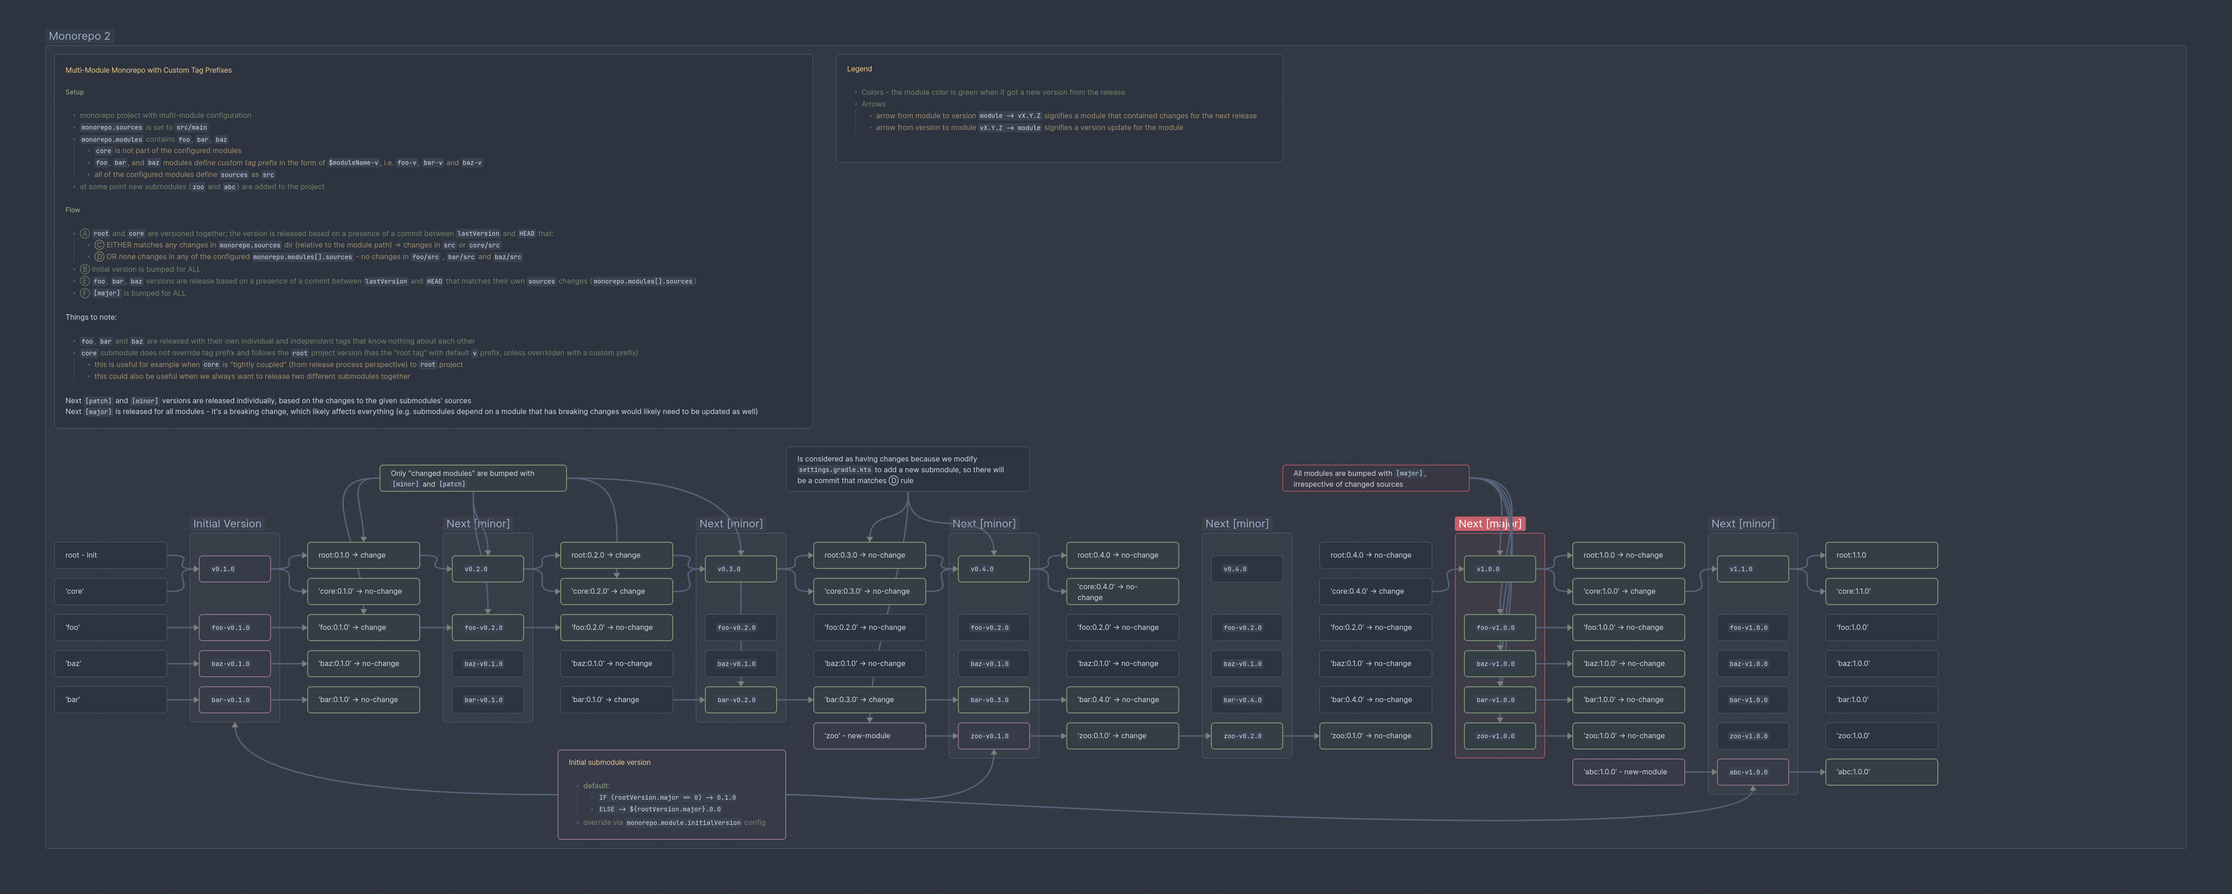
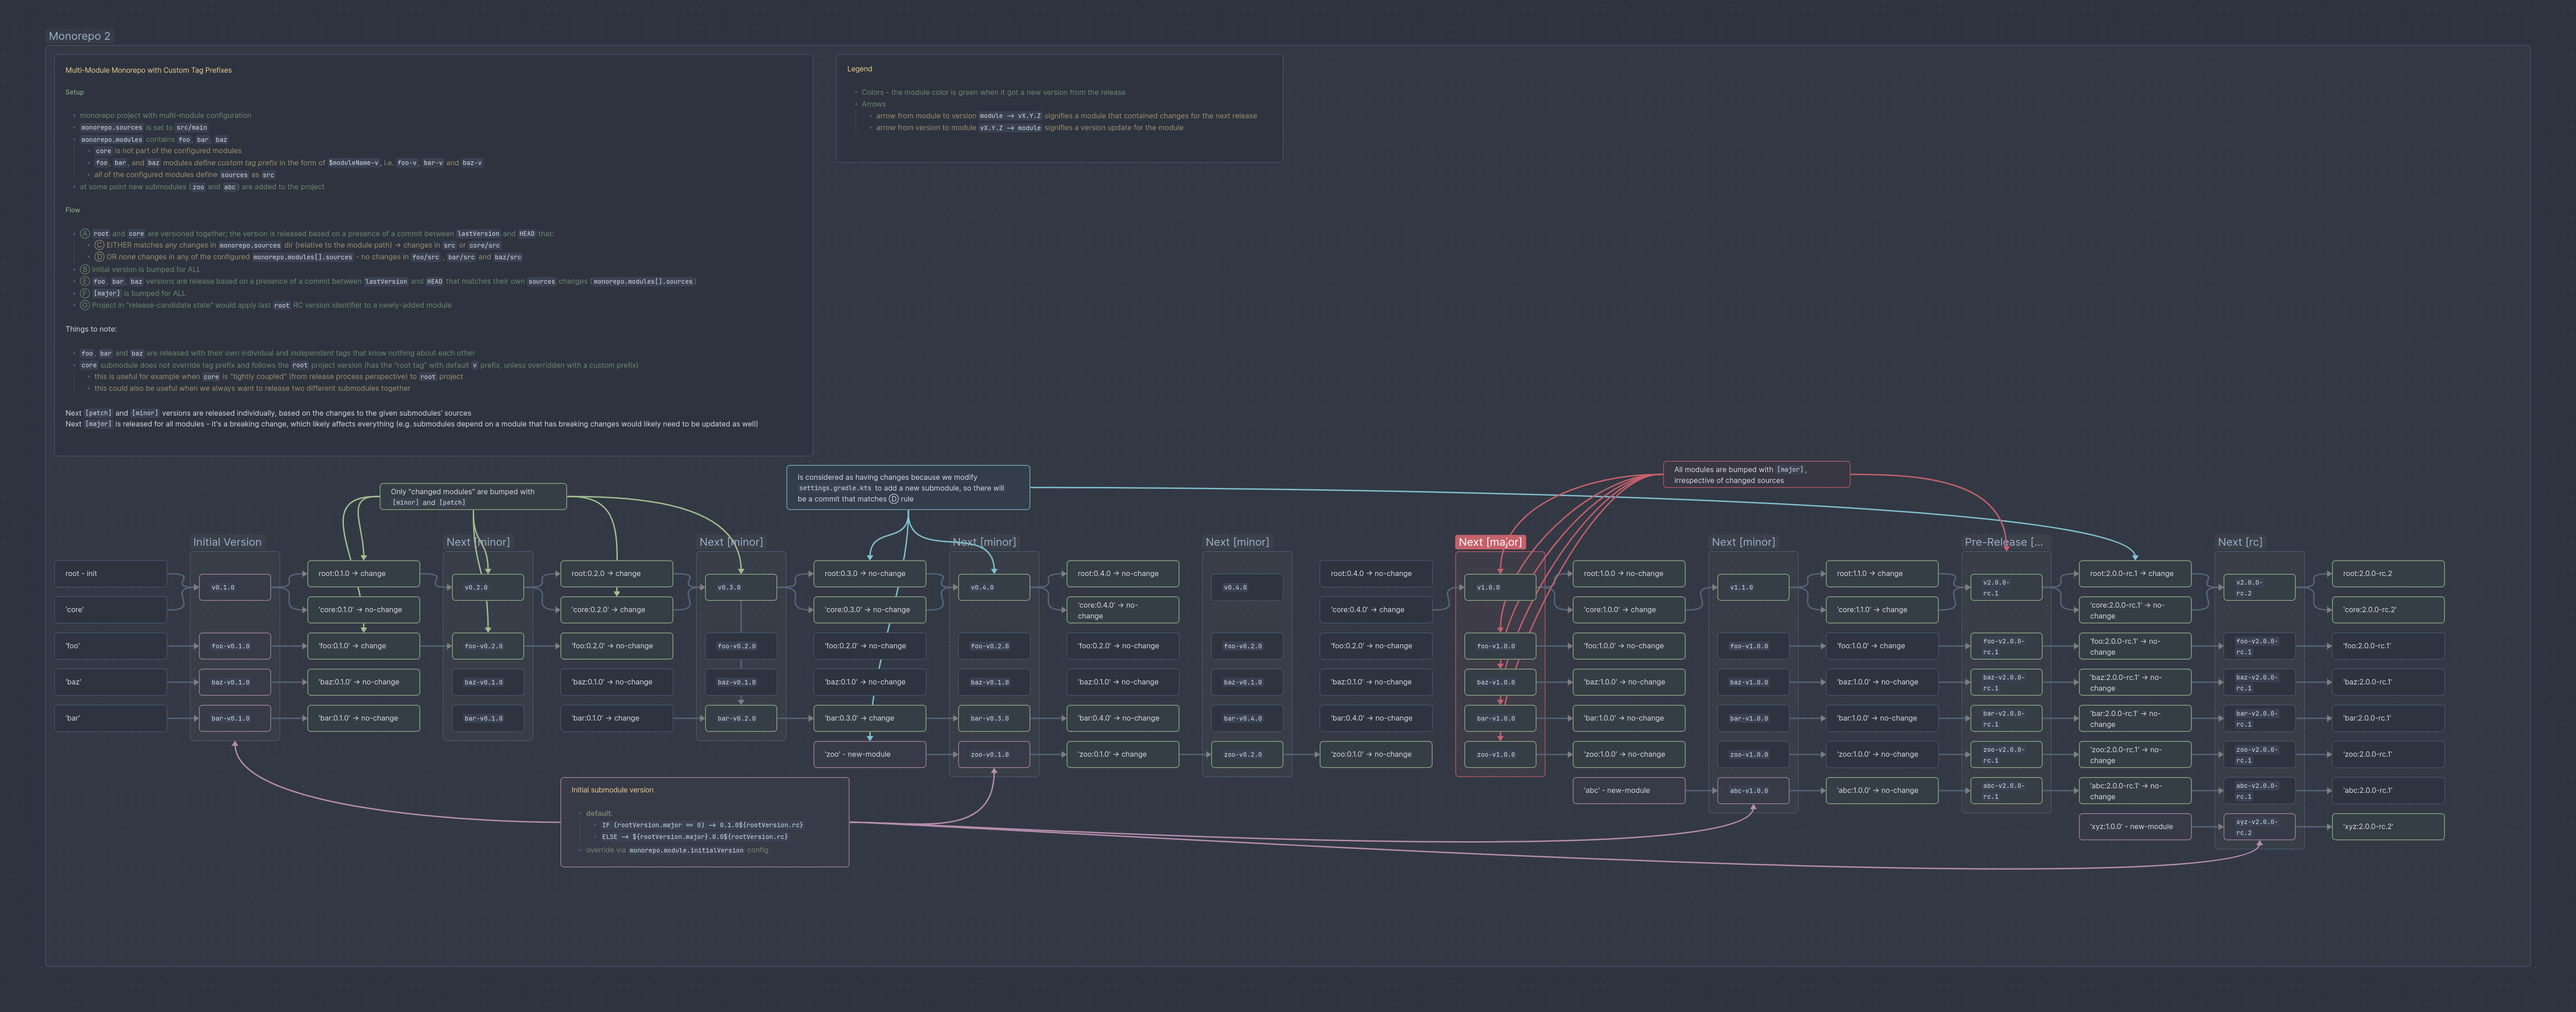
Support versioning new monorepo multi-tag modules in pre-release (#34)
IF the monorepo project is in pre-release and new module is added,
AND the new module is versioned via own tag,
THEN the module version should also be postfixed with pre-release
identifier.

diff --git a/semantic-versioning/src/functionalTest/kotlin/io/github/serpro69/semverkt/gradle/plugin/SemverKtPluginFT.kt b/semantic-versioning/src/functionalTest/kotlin/io/github/serpro69/semverkt/gradle/plugin/SemverKtPluginFT.kt
@@ -19,7 +19,6 @@ import io.github.serpro69.semverkt.release.configuration.ModuleConfig
 import io.github.serpro69.semverkt.release.configuration.PojoConfiguration
 import io.github.serpro69.semverkt.release.configuration.TagPrefix
 import io.github.serpro69.semverkt.spec.Semver
-import io.kotest.core.names.DuplicateTestNameMode
 import io.kotest.matchers.shouldBe
 import io.kotest.matchers.string.shouldContain
 import io.kotest.matchers.string.shouldNotContain
@@ -988,6 +987,57 @@ class SemverKtPluginFT : AbstractFT({ t ->
                 result.output shouldContain t.expectedTag("foo", Semver("0.1.0"), dryRun, UpToDate.FALSE, false)
                 result.output shouldContain t.expectedTag("bar", Semver("0.3.0"), dryRun, UpToDate.FALSE, false)
                 result.output shouldContain t.expectedTag("baz", null, dryRun, UpToDate.TRUE, false)
+            }
+
+            listOf(
+                Triple(Semver("1.3.0-rc.3"), Semver("1.3.0-rc.1"), Semver("1.0.0-rc.4")),
+                Triple(Semver("2.0.0-rc.3"), Semver("2.0.0-rc.1"), Semver("2.0.0-rc.4"))
+            ).forEach { (ver, moduleVer, expectedVer) ->
+                it("should set initial RC version for new submodule after first stable release") {
+                    // arrange
+                    val modulesVersions = modules.map { it to if (it == "core") ver else moduleVer }
+                    val project = SemverKtTestProject(
+                        multiModule = true,
+                        monorepo = true,
+                        multiTag = true,
+                        printModuleVersion = true
+                    )
+                    Git.open(project.projectDir.toFile()).use {
+                        t.setupInitialVersions(project, it)(modulesVersions)
+                        // -> commit file in ':core' submodule path
+                        t.commit(project, it, if (!rfc) null else Increment.PRE_RELEASE)("core")
+                        // -> commit file in ':bar' submodule path
+                        t.commit(project, it, if (!rfc) null else Increment.PRE_RELEASE)("bar")
+                        // -> add new ':abc' submodule
+                        project.add(ModuleConfig("abc", tag = object : GitTagConfig {
+                            override val prefix: TagPrefix = TagPrefix("abc-v")
+                        }))
+                        t.commit(project, it, if (!rfc) null else Increment.PRE_RELEASE)("abc")
+                    }
+                    // act
+                    // -> tag next MINOR version
+                    val result = rfc.tag(project)(preRelease)(dryRun)
+                    // assert
+                    val ml = modulesVersions.plus("abc" to expectedVer).map { (m, v) ->
+                        if (m == "core" || m == "bar") m to v.incrementPreRelease() else m to v
+                    }
+                    result.task(":tag")?.outcome shouldBe t.expectedOutcome(dryRun, UpToDate.FALSE)
+                    result.output shouldContain t.expectedConfigure(ver.incrementPreRelease(), ml)
+                    // -> 'root' project and ':core' submodule should have next RC version tag (v2.0.0-rc.4)
+                    //    (':core' is not configured with custom tag prefix and has changes)
+                    result.output shouldContain t.expectedTag(project.name, ver.incrementPreRelease(), dryRun, UpToDate.FALSE, false)
+                    result.output shouldContain t.expectedTag("core", ver.incrementPreRelease(), dryRun, UpToDate.TRUE, true)
+                    // -> ':bar' submodule should have next RC version tag (bar-v2.0.0-rc.2)
+                    //    (configured with custom tag prefix has changes)
+                    result.output shouldContain t.expectedTag("bar", moduleVer.incrementPreRelease(), dryRun, UpToDate.FALSE, false)
+                    // -> ':foo' and ':baz' submodules should be unchanged
+                    //    (both are configured with custom tag prefix, and they don't have changes)
+                    result.output shouldContain t.expectedTag("foo", null, dryRun, UpToDate.TRUE, false)
+                    result.output shouldContain t.expectedTag("baz", null, dryRun, UpToDate.TRUE, false)
+                    // -> ':abc' submodule should have initial RC version tag (abc-v.2.0.0-rc.4)
+                    //    (configured with custom tag prefix and "default initial RC version" -> '${rootVersion.major}.0.0${rootVersion.preRelease}')
+                    result.output shouldContain t.expectedTag("abc", expectedVer, dryRun, UpToDate.FALSE, false)
+                }
             }
         }
     }

diff --git a/semantic-versioning/src/main/kotlin/io/github/serpro69/semverkt/gradle/plugin/SemverKtPlugin.kt b/semantic-versioning/src/main/kotlin/io/github/serpro69/semverkt/gradle/plugin/SemverKtPlugin.kt
@@ -58,7 +58,7 @@ class SemverKtPlugin : Plugin<Settings> {
                 project.rootProject.path -> null
                 else -> config.monorepo.modules.firstOrNull { m -> m.path == project.path }
             }
-            logger.debug("{} project module config: {}", project.name,  moduleConfig?.jsonString())
+            logger.debug("{} project module config: {}", project.name, moduleConfig?.jsonString())
 
             it.description = "Create a tag for the next version"
             it.config.set(config)
@@ -226,13 +226,14 @@ class SemverKtPlugin : Plugin<Settings> {
             // set initial version
             val setInitial by lazy { nextVersion != null && latestVersion == null }
             val next = if (nextVersion != null && (setSnapshot || setNext || setInitial)) {
-                // initial major for new module
-                val major =
-                    if (isMonorepo && setInitial && !isRoot) Semver(project.rootProject.version.toString()).major else null
+                // initial major and (possible) rc for new module
+                val (major, rc) = if (isMonorepo && setInitial && !isRoot) {
+                    Semver(project.rootProject.version.toString()).let { it.major to it.preRelease }
+                } else null to null
                 val nextVer = when (major) {
                     null -> nextVersion
-                    0 -> config.version.initialVersion
-                    else -> Semver(major = major, minor = 0, patch = 0)
+                    0 -> config.version.initialVersion.copy(preRelease = rc)
+                    else -> Semver(major = major, minor = 0, patch = 0).copy(preRelease = rc)
                 }
                 project.version = nextVer
                 logger.debug("{} project version: {}", project, project.version)

diff --git a/semantic-versioning/README.md b/semantic-versioning/README.md
@@ -197,6 +197,15 @@ The plugin makes use of the following properties:
 
 ### Monorepo Support
 
+This plugin supports the following types of projects:
+
+- non-monorepo - a project that does not configure `monorepo` modules; it uses the same tag prefix for all (if any) modules and is effectively tagged with a single git tag
+- [single-tag monorepo](#single-tag-monorepo) - a project with `monorepo` configuration containing one or more modules; all modules use the same (default) tag prefix and are effectively tagged with a single git tag
+- [multi-tag monorepo](#multi-tag-monorepo) - a project with `monorepo` configuration containing one or more modules; some (or all) modules declare their own `tag.prefix`, and hence have their own git tags
+
+> [!INFO]
+> The main difference between the first two is that in "single-tag monorepo" projects, the project version is applied to each (configured) submodule individually, based on discovered changes in the configured `sources`, and some modules may be "kept back" on the previous version if no `sources` changes are discovered for that given module.
+
 #### Single-Tag Monorepo
 
 The plugin supports individual versioning of submodules (subprojects) of monorepo projects.
@@ -294,24 +303,43 @@ settings.extensions.configure<SemverPluginExtension>("semantic-versioning") {
 
 For example monorepo versioning workflow diagrams refer to [single-tag_monorepo_workflow.png](../docs/images/single-tag_monorepo_workflow.png) and [multi-tag_monorepo_workflow.png](../docs/images/multi-tag_monorepo_workflow.png)
 
+> [!NOTE]
+> These diagrams were made with [obsidian](https://obsidian.md). The original canvas file can be found in [docs/assets/monorepo_workflow.canvas](../docs/assets/monorepo_workflow.canvas)
+
 > [!IMPORTANT]
-> In monorepo multi-tag projects, unlike single-tag monorepo and non-monorepo projects, each module will have a version applied to it. 
+> In monorepo multi-tag projects, unlike single-tag monorepo and non-monorepo projects, each (configured) module will have a version applied to it. 
 > For modules that don't have any changes between the latest version and the next release, the "latest version" will be set.
 > 
 > Single-tag monorepo project type does not support this as it would be impossible to determine "latest version" of a given module from a single git tag. 
 
-#### Pre-release versions with monorepo multi-tag versioning
+#### Release-candidate versions in multi-tag monorepo projects
 
-There is currently no support for handling "pre-release versions" with "release versions" at the same time, because bumping the next version requires a different set of inputs. I.e. to bump a next `rc` version one would use `-Prelease -Pincrement=pre_release`; to create a pre-release version we would need `-Prelease -PpreRelease` (with an optional increment of `major`, `minor`, or `patch`) parameters.
+When a new submodule with a custom tag prefix is added to a [multi-tag monorepo](#multi-tag-monorepo) project that is currently in "pre-release state", the new submodule would use the *last rc version identifier* of the `root` project when creating the tag for self.
 
-This is important to keep in mind when a new submodule with a custom tag prefix is added to a project that is currently in "pre-release state". The new submodule would not be able to find the "last rc version" for self, and hence bumping to next pre-release version would not work as expected (because the "next pre-release version" expects that a "previous pre-release version" exists) and would produce the next "release version" instead.
+Consider the following scenario:
 
-To work around this limitation, one could manually create a git tag for the new submodule pointing to an earlier commit, then creating the next pre-release by running `gradle tag -Prelease -Pincrement=pre_release`, and then cleaning up the manually created git tag.
-
-For example, if a `foo` module is added to the project with a custom git-tag prefix configuration, and current project version is `2.0.0-rc.3` (which is root project version; we disregard any other modules' versions because they don't matter in this scenario), one could, for example, create a tag named `foo-v2.0.0-rc.0` and then run `gradle tag -Prelease -Pincrement=pre_release`, which would create `v2.0.0-rc.4` tag for the root project, and a `foo-v2.0.0-rc.1` tag for the `foo` module, along with any other tags for modules that define custom tag prefix (if applicable).
+- We have a multi-tag monorepo project with `foo` and `bar` modules that are versioned separately, and have versions `2.0.0-rc.1` and `2.0.0-rc.2` respectively
+- Current root project version is `2.0.0-rc.4`
+- We add a new `baz` module that also has a custom tag prefix
+- Assuming that all modules had some changes between last version and `HEAD`
+  - IF we create a new version with `pre_release` increment, the tags created would be as follows:
+    - `foo` would be `foo-v2.0.0-rc.2`
+    - `bar` would be `bar-v2.0.0-rc.3`
+    - `root` would be `v2.0.0-rc.5`
+    - `baz` would be `baz-v2.0.0-rc.5`
+      Here baz did not have a "previous version", hence will use the `major` and (optional) `rc` identifiers from `root`
+  - IF we create a new version using `promoteRelease` property, all the modules would be promoted from RC version to release version and would be tagged with `2.0.0` version with their own prefixes
+    - `baz` will also be released with version `2.0.0`. It did not have a "previous version", hence it will "inherit" `major` and (optional) `rc` identifiers from `root`. And because new `root` version does not have any RC identifiers, it's not applied to `baz` either.
+  - IF we create a new version using `minor` increment, the tags created would be as follows:
+    - `foo` would be `foo-v2.1.0`
+    - `bar` would be `bar-v2.1.0`
+    - `root` would be `v2.1.0`
+    - `baz` would be `baz-v2.0.0`
+      Again, since baz did not have a "previous version", it will "inherit" `major` and (optional) `rc` identifiers from `root`. Since new `root` version does not have any RC identifiers, it's not applied to `baz` either.
+      NB! `baz`, being a newly added module, would always set `minor` and `patch` version identifier to `0` for the "initial version"
 
 > [!NOTE]
-> These diagrams were made with [obsidian](https://obsidian.md). The original canvas file can be found in [docs/assets/monorepo_workflow.canvas](../docs/assets/monorepo_workflow.canvas)
+> There is currently no support for handling "pre-release versions" with "release versions" at the same time, because bumping the next version requires a different set of inputs. I.e. to bump a next `rc` version one would use `-Prelease -Pincrement=pre_release`; to create a pre-release version we would need `-Prelease -PpreRelease` (with an optional increment of `major`, `minor`, or `patch`) parameters.
 
 ## Development
 
